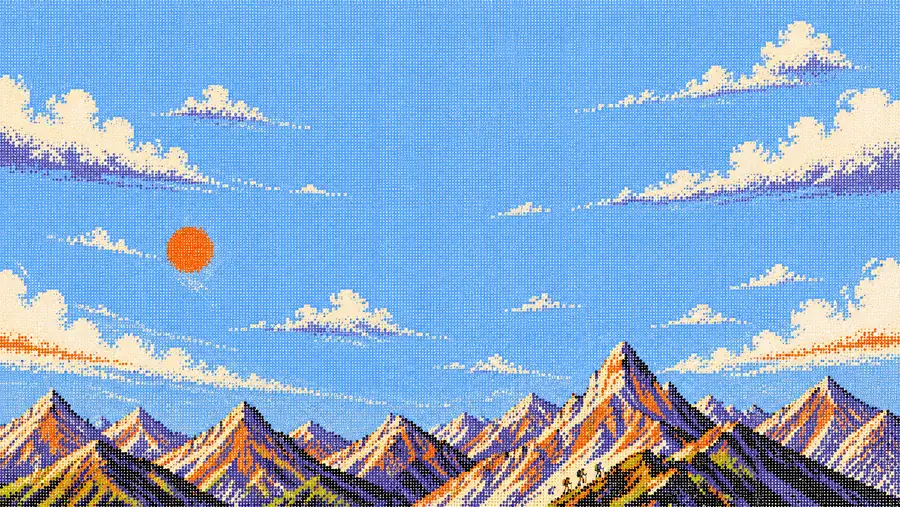
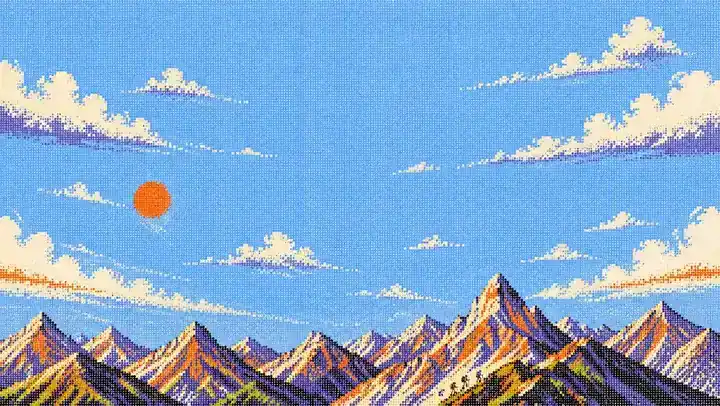
Performance fix

diff --git a/src/app/globals.css b/src/app/globals.css
@@ -74,7 +74,7 @@
   --border: #ffffff14;
   --border-subtle: #251d30;
   --border-strong: #352a42;
-  --text-soft: #8d8194;
+  --text-soft: #93879b;
   --text-muted: #a89db0;
   --text-main: #e5e1e8;
   --bg-700: #1a1525;
@@ -83,39 +83,235 @@
   --gold-500: #fbbf24;
   --grid-opacity: 0;
 }
-* { box-sizing: border-box; }
-html { scroll-behavior: smooth; scroll-padding-top: 96px; }
-body { margin: 0; background: var(--background); color: var(--foreground); font-family: var(--font-lexend), Arial, sans-serif; font-size: 16px; line-height: 1.5; -webkit-font-smoothing: antialiased; }
-button, input, select, textarea { font: inherit; }
-button, a, input, select, textarea { -webkit-tap-highlight-color: transparent; }
-button { cursor: pointer; color: inherit; }
-a { color: inherit; text-decoration: none; }
-button:disabled { cursor: default; }
-button:focus-visible, a:focus-visible, input:focus-visible, select:focus-visible, textarea:focus-visible { outline: 2px solid var(--primary-purple); outline-offset: 5px; }
-::selection { background: #8082c155; color: white; }
-h1, h2, h3, h4, p { margin: 0; }
-img, video { display: block; max-width: 100%; height: auto; }
-.mf-container { width: 100%; max-width: 1280px; margin-inline: auto; padding-inline: 16px; }
-.mf-section { position: relative; padding-block: 96px; border-top: 1px solid var(--border); overflow: clip; }
-.accent { color: var(--primary-purple); font-style: italic; }
-.section-heading { margin-bottom: 64px; }
-.section-heading h2 { margin: 24px 0; font-size: 30px; line-height: 1.25; font-weight: 500; letter-spacing: -.025em; }
-.section-heading p { max-width: 768px; margin-inline: auto; font-size: 18px; font-weight: 500; line-height: 1.625; color: var(--muted-foreground); }
-.section-badge { display: inline-flex; align-items: center; gap: 8px; border: 1px solid #8082c14d; background: #8082c11a; padding: 4px 12px; font-size: 12px; line-height: 18px; font-weight: 500; color: var(--primary-purple); text-transform: uppercase; letter-spacing: .1em; }
-.signal-dot { position: relative; width: 8px; height: 8px; flex-shrink: 0; background: var(--primary-purple); border-radius: 50%; }
-.signal-dot::before { content: ""; position: absolute; inset: 0; border-radius: inherit; background: inherit; animation: signal-ping 2s cubic-bezier(0,0,.2,1) infinite; }
-.mf-button { display: inline-flex; position: relative; align-items: center; justify-content: center; gap: 12px; min-height: 56px; padding: 16px 32px; background: var(--foreground); color: var(--background); text-transform: uppercase; font-size: 12px; font-weight: 700; line-height: 20px; transition: background .3s, color .3s, transform .3s; border: 0; text-align: center; }
-.mf-button:hover { background: var(--primary-purple); color: white; }
-.mf-button svg { flex-shrink: 0; transition: transform .3s; }
-.mf-button:hover svg { transform: rotate(45deg); }
-.mf-button-secondary { background: var(--secondary); color: var(--foreground); }
-.mf-button-secondary:hover { background: #1d1727; color: var(--primary-purple); }
-.call-strip { display: flex; justify-content: center; padding: 32px 16px; }
-.call-strip .mf-button { width: 100%; }
-.will-reveal { opacity: 0; transform: translateY(24px); transition: opacity .65s ease, transform .65s cubic-bezier(.22,.61,.36,1); }
-.will-reveal.is-visible { opacity: 1; transform: translateY(0); }
-.skip-link { position: fixed; top: -100px; left: 16px; z-index: 1000; background: var(--foreground); color: var(--background); padding: 12px; }
-.skip-link:focus { top: 12px; }
+
+* {
+  box-sizing: border-box;
+}
+
+html {
+  scroll-behavior: smooth;
+  scroll-padding-top: 96px;
+}
+
+body {
+  margin: 0;
+  background: var(--background);
+  color: var(--foreground);
+  font-family: var(--font-lexend), Arial, sans-serif;
+  font-size: 16px;
+  line-height: 1.5;
+  -webkit-font-smoothing: antialiased;
+}
+
+button,
+input,
+select,
+textarea {
+  font: inherit;
+}
+
+button,
+a,
+input,
+select,
+textarea {
+  -webkit-tap-highlight-color: transparent;
+}
+
+button {
+  cursor: pointer;
+  color: inherit;
+}
+
+a {
+  color: inherit;
+  text-decoration: none;
+}
+
+button:disabled {
+  cursor: default;
+}
+
+button:focus-visible,
+a:focus-visible,
+input:focus-visible,
+select:focus-visible,
+textarea:focus-visible {
+  outline: 2px solid var(--primary-purple);
+  outline-offset: 5px;
+}
+
+::selection {
+  background: #8082c155;
+  color: white;
+}
+
+h1,
+h2,
+h3,
+h4,
+p {
+  margin: 0;
+}
+
+img,
+video {
+  display: block;
+  max-width: 100%;
+  height: auto;
+}
+
+.mf-container {
+  width: 100%;
+  max-width: 1280px;
+  margin-inline: auto;
+  padding-inline: 16px;
+}
+
+.mf-section {
+  position: relative;
+  padding-block: 96px;
+  border-top: 1px solid var(--border);
+  overflow: clip;
+}
+
+.accent {
+  color: var(--primary-purple);
+  font-style: italic;
+}
+
+.section-heading {
+  margin-bottom: 64px;
+}
+
+.section-heading h2 {
+  margin: 24px 0;
+  font-size: 30px;
+  line-height: 1.25;
+  font-weight: 500;
+  letter-spacing: -.025em;
+}
+
+.section-heading p {
+  max-width: 768px;
+  margin-inline: auto;
+  font-size: 18px;
+  font-weight: 500;
+  line-height: 1.625;
+  color: var(--muted-foreground);
+}
+
+.section-badge {
+  display: inline-flex;
+  align-items: center;
+  gap: 8px;
+  border: 1px solid #8082c14d;
+  background: #8082c11a;
+  padding: 4px 12px;
+  font-size: 12px;
+  line-height: 18px;
+  font-weight: 500;
+  color: var(--primary-purple);
+  text-transform: uppercase;
+  letter-spacing: .1em;
+}
+
+.signal-dot {
+  position: relative;
+  width: 8px;
+  height: 8px;
+  flex-shrink: 0;
+  background: var(--primary-purple);
+  border-radius: 50%;
+}
+
+.signal-dot::before {
+  content: "";
+  position: absolute;
+  inset: 0;
+  border-radius: inherit;
+  background: inherit;
+  animation: signal-ping 2s cubic-bezier(0, 0, .2, 1) infinite;
+}
+
+.mf-button {
+  display: inline-flex;
+  position: relative;
+  align-items: center;
+  justify-content: center;
+  gap: 12px;
+  min-height: 56px;
+  padding: 16px 32px;
+  background: var(--foreground);
+  color: var(--background);
+  text-transform: uppercase;
+  font-size: 12px;
+  font-weight: 700;
+  line-height: 20px;
+  transition: background .3s, color .3s, transform .3s;
+  border: 0;
+  text-align: center;
+}
+
+.mf-button:hover {
+  background: var(--primary-purple);
+  color: white;
+}
+
+.mf-button svg {
+  flex-shrink: 0;
+  transition: transform .3s;
+}
+
+.mf-button:hover svg {
+  transform: rotate(45deg);
+}
+
+.mf-button-secondary {
+  background: var(--secondary);
+  color: var(--foreground);
+}
+
+.mf-button-secondary:hover {
+  background: #1d1727;
+  color: var(--primary-purple);
+}
+
+.call-strip {
+  display: flex;
+  justify-content: center;
+  padding: 32px 16px;
+}
+
+.call-strip .mf-button {
+  width: 100%;
+}
+
+.will-reveal {
+  opacity: 0;
+  transform: translateY(24px);
+  transition: opacity .65s ease, transform .65s cubic-bezier(.22, .61, .36, 1);
+}
+
+.will-reveal.is-visible {
+  opacity: 1;
+  transform: translateY(0);
+}
+
+.skip-link {
+  position: fixed;
+  top: -100px;
+  left: 16px;
+  z-index: 1000;
+  background: var(--foreground);
+  color: var(--background);
+  padding: 12px;
+}
+
+.skip-link:focus {
+  top: 12px;
+}
+
 /* Existing contact and legal routes retain their content in the shared dark theme. */
 .container {
   max-width: 1280px;

diff --git a/src/components/sites/manasflow/home.tsx b/src/components/sites/manasflow/home.tsx
@@ -96,17 +96,24 @@ function ScrollStory() {
   const ref = useRef<HTMLDivElement>(null);
   const [progress, setProgress] = useState(0);
   useEffect(() => {
+    const node = ref.current;
+    if (!node || window.matchMedia("(prefers-reduced-motion: reduce)").matches) return;
     let frame = 0;
+    let nearViewport = false;
+    let previous = -1;
     const update = () => {
-      cancelAnimationFrame(frame);
+      if (!nearViewport || frame || document.visibilityState === "hidden") return;
       frame = requestAnimationFrame(() => {
-        if (!ref.current) return;
-        const bounds = ref.current.getBoundingClientRect();
-        setProgress(Math.min(1, Math.max(0, -bounds.top / Math.max(1, bounds.height - window.innerHeight))));
+        frame = 0;
+        const bounds = node.getBoundingClientRect();
+        const next = Math.round(Math.min(1, Math.max(0, -bounds.top / Math.max(1, bounds.height - window.innerHeight))) * 200) / 200;
+        if (next !== previous) { previous = next; setProgress(next); }
       });
     };
-    update(); window.addEventListener("scroll", update, { passive: true }); window.addEventListener("resize", update);
-    return () => { cancelAnimationFrame(frame); window.removeEventListener("scroll", update); window.removeEventListener("resize", update); };
+    const observer = new IntersectionObserver(([entry]) => { nearViewport = entry.isIntersecting; if (nearViewport) update(); }, { rootMargin: "100% 0px" });
+    observer.observe(node);
+    window.addEventListener("scroll", update, { passive: true }); window.addEventListener("resize", update);
+    return () => { observer.disconnect(); cancelAnimationFrame(frame); window.removeEventListener("scroll", update); window.removeEventListener("resize", update); };
   }, []);
   const active = Math.min(4, Math.floor(progress * 5));
   const wordProgress = Math.min(1, (progress * 5 - active) / .8);

diff --git a/src/components/sites/manasflow/chrome.css b/src/components/sites/manasflow/chrome.css
@@ -568,9 +568,17 @@
   right: -50%;
   height: 50%;
   opacity: .1;
-  background: linear-gradient(to right, #9fa3f31a 1px, transparent 1px), linear-gradient(to bottom, #9fa3f31a 1px, transparent 1px), linear-gradient(to bottom, transparent 50%, #8082c140);
-  background-size: 40px 40px, 40px 40px, 100% 100%;
+  overflow: hidden;
+  background: linear-gradient(to bottom, transparent 50%, #8082c140);
   z-index: -1;
+}
+
+.mf-deploy-grid::before {
+  content: "";
+  position: absolute;
+  inset: -40px 0 0;
+  background: linear-gradient(to right, #9fa3f31a 1px, transparent 1px), linear-gradient(to bottom, #9fa3f31a 1px, transparent 1px);
+  background-size: 40px 40px;
   animation: mf-grid-scroll 4s linear infinite;
 }
 
@@ -586,6 +594,9 @@
   transform: rotateX(-20deg) scale(2) translateZ(-200px);
   transform-origin: top;
   mask-image: linear-gradient(to bottom, black, transparent);
+}
+
+.mf-deploy-grid-bottom::before {
   animation-direction: reverse;
 }
 
@@ -1101,7 +1112,7 @@
 
 @keyframes mf-grid-scroll {
   to {
-    background-position: 0 40px, 0 40px, 0 0;
+    transform: translateY(40px);
   }
 }
 
@@ -1313,7 +1324,7 @@
 @media (prefers-reduced-motion:reduce) {
 
   .mf-floating-tools>a,
-  .mf-deploy-grid {
+  .mf-deploy-grid::before {
     animation: none;
   }
 
